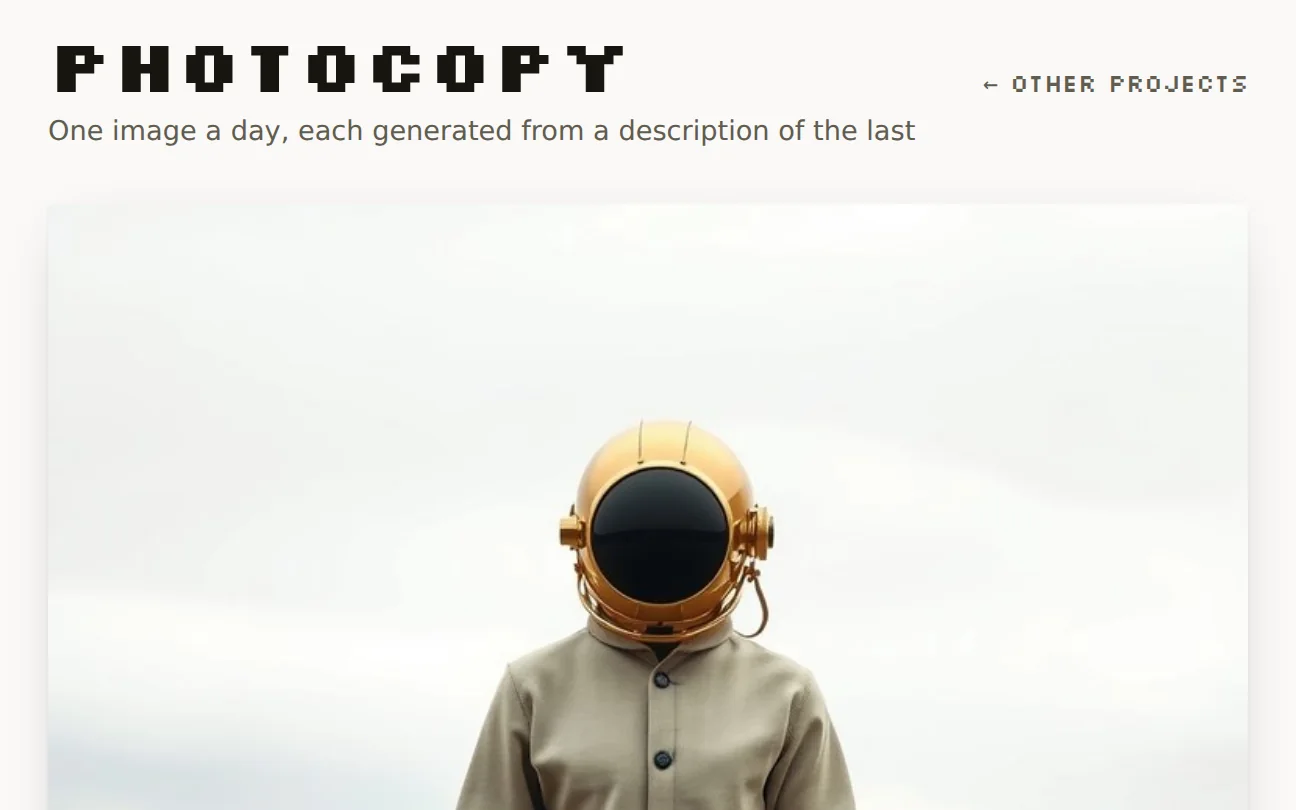
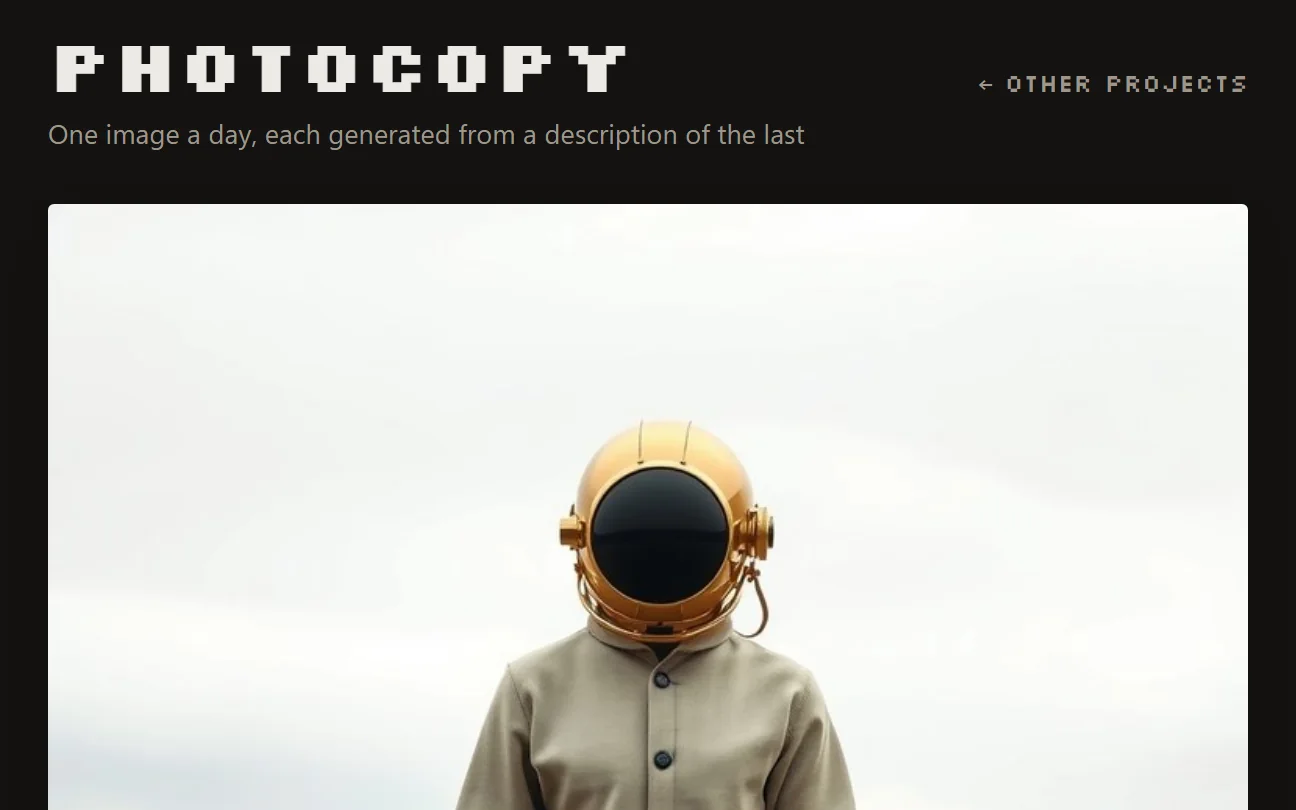
Shoot the Photocopy and Shortfall thumbnails dark
Both were rendering light because Playwright emulates prefers-color-scheme: light by
default, and neither site stores a theme choice. Verified before changing anything that
emulation alone is enough: photocopy's body goes rgb(250,249,247) -> rgb(19,18,17) and
shortfall flips its data-theme attribute light -> dark, so neither needs a PREPARE step.

Re-shot, and the shooter's own change detector agrees the images really moved: diff
69.5 for photocopy, 223.9 for shortfall, against a threshold of 2.

Note the Photocopy card still reads light overall. That is correct - the chrome is dark
and the frame fills with the day's generated photograph, which today has a pale sky. A
mean-brightness check is the wrong test for that card.

diff --git a/tools/shoot_thumbnails.py b/tools/shoot_thumbnails.py
@@ -159,6 +159,12 @@ SCHEME = {
     "beyond-small-talk": "dark",
     "woop-woop": "dark",
     "pendulum": "dark",
+    # Both verified 19/08/2026 to key off prefers-color-scheme with no stored choice:
+    # photocopy body goes rgb(250,249,247) -> rgb(19,18,17), shortfall also flips its
+    # data-theme attribute light -> dark. So emulation alone is enough; neither needs
+    # a PREPARE step to set a localStorage key.
+    "photocopy": "dark",
+    "shortfall": "dark",
 }
 
 # Pages whose top is a masthead rather than the product: frame on an element
